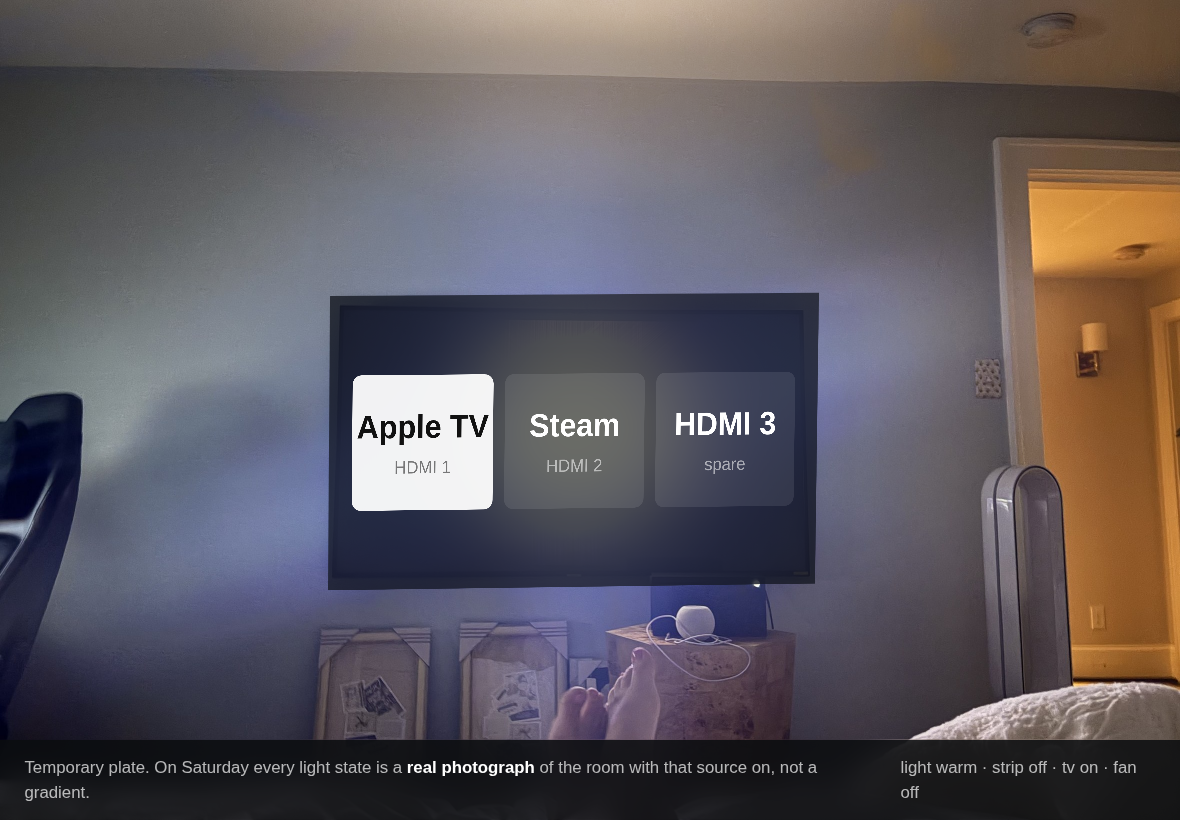
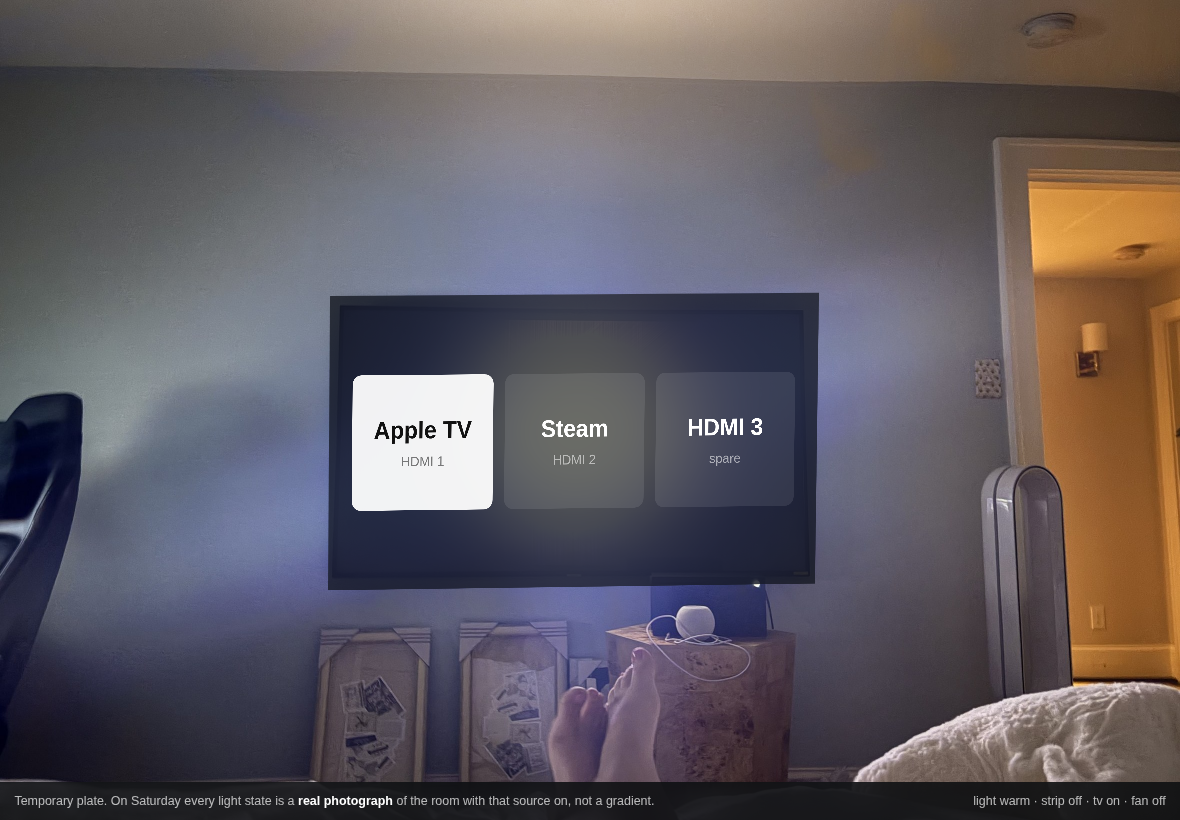
Put the wall page's type back, and back off the picker
The type change went far wider than the note that prompted it, which was about
the source picker on the television. The wall page, the story panels and the
saga are all back exactly where they were.

The picker's labels come down from 62px to 46px inside the mapped box. They stay
sized in that box rather than against the viewport, which is the part worth
keeping: the box is scaled onto the television's four corners, so px there are a
fixed fraction of the television however much of the frame it fills, and a
label sized against the screen would be right on this plate and wrong on the
real one by coincidence.

The settings panel keeps its scrolling, which was never about type size. The
bridge address row made the panel taller than it was, and a Done button below
the fold leaves the scrim as a panel's only exit.

Claude-Session: https://claude.ai/code/session_01PLQX8NFdFZACvUmmxiss33

diff --git a/index.html b/index.html
@@ -63,22 +63,10 @@
 
 *,*::before,*::after{box-sizing:border-box}
 html,body{height:100%;margin:0;overflow:hidden}
-/* ---------------- type size ----------------
-   This panel is bolted to a wall and read from across the room, not held at arm's
-   length, so the whole scale is set once here and everything downstream is in rem.
-
-   Fluid rather than fixed because the two iPads differ by 0.8% and because a value that
-   works on the panel should not need a second value for a laptop while developing. At
-   1180pt it lands around 27px, which is roughly 1.7x the browser default: chosen so a
-   line of body copy is legible from the bed, which is the actual reading distance.
-
-   The tradeoff is real and worth knowing: bigger type means less of a story on screen at
-   once, so the panels scroll further. That is the right way round for this. Something
-   you cannot read from where you are standing is not on the screen at all. */
-html{-webkit-text-size-adjust:100%; font-size:clamp(20px, 2.3vw, 30px)}
+html{-webkit-text-size-adjust:100%}
 body{
   background:var(--wall);
-  font:400 1.02rem/1.5 Helvetica, Arial, sans-serif;
+  font:400 17px/1.55 Helvetica, Arial, sans-serif;
   color:var(--ink);
   -webkit-user-select:none; user-select:none;
   -webkit-touch-callout:none;
@@ -246,7 +234,7 @@ button{font:inherit;color:inherit;margin:0}
   height:var(--front-h, 6vw); aspect-ratio:.61;
   border:.2vw dashed rgba(60,66,58,.62); background:rgba(250,250,247,.94);
   display:flex; align-items:center; justify-content:center;
-  font:700 clamp(11px,1.05vw,18px)/1 Helvetica,Arial,sans-serif;
+  font:700 clamp(8px,.72vw,12px)/1 Helvetica,Arial,sans-serif;
   color:rgba(38,44,38,.66); letter-spacing:.04em; text-transform:uppercase;
 }
 .ledge .shelf img{width:100%; height:100%; object-fit:fill; border-radius:0}
@@ -276,8 +264,8 @@ button{font:inherit;color:inherit;margin:0}
   background:rgba(255,255,255,.30);
   color:rgba(38,44,38,.66);
 }
-.todo b{font:700 clamp(12px,1.25vw,21px)/1.2 Helvetica,Arial,sans-serif;letter-spacing:.02em}
-.todo span{font:400 clamp(11px,1.02vw,17px)/1.25 Helvetica,Arial,sans-serif;opacity:.8}
+.todo b{font:700 clamp(9px,.86vw,15px)/1.2 Helvetica,Arial,sans-serif;letter-spacing:.02em}
+.todo span{font:400 clamp(8px,.7vw,12px)/1.25 Helvetica,Arial,sans-serif;opacity:.8}
 .ledge .todo{width:100%}
 
 /* ============================ story panel ============================ */
@@ -299,13 +287,13 @@ body.story-open #story{transform:none; visibility:visible}
 #storyTop .grow{flex:1 1 auto; min-width:0}
 .stamp{
   display:inline-block; background:var(--pink); color:#fff;
-  font:400 .88rem/1 Impact,"Arial Narrow Bold","Arial Black",Helvetica,sans-serif;
+  font:400 15px/1 Impact,"Arial Narrow Bold","Arial Black",Helvetica,sans-serif;
   letter-spacing:.06em; text-transform:uppercase;
   padding:.35rem .6rem .3rem; transform:rotate(-1.5deg); margin-bottom:.55rem;
 }
-.stamp.big{background:var(--red); font-size:1.12rem}
+.stamp.big{background:var(--red); font-size:19px}
 #storyTop h1{
-  margin:0; font:900 clamp(1.6rem,3.4vw,2.6rem)/1.02 "Arial Black",Helvetica,Arial,sans-serif;
+  margin:0; font:900 clamp(1.5rem,3.1vw,2.4rem)/1.02 "Arial Black",Helvetica,Arial,sans-serif;
   text-transform:uppercase; letter-spacing:-.02em;
 }
 #storyTop .facts{margin:.5rem 0 0; font-size:.9rem; color:#444}
@@ -353,7 +341,7 @@ body.story-open #story{transform:none; visibility:visible}
 .box.blue{box-shadow:5px 5px 0 var(--navy)}
 .box h3{
   margin:0 0 .5rem;
-  font:400 1.14rem/1.15 Impact,"Arial Narrow Bold","Arial Black",Helvetica,sans-serif;
+  font:400 19px/1.15 Impact,"Arial Narrow Bold","Arial Black",Helvetica,sans-serif;
   letter-spacing:.04em; text-transform:uppercase;
 }
 .box p{margin:0 0 .6rem; font-size:.95rem}
@@ -400,7 +388,7 @@ body.story-open #story{transform:none; visibility:visible}
 .saga-wrap{width:min(46rem,100%); margin-inline:auto}
 .chapter{padding:0 0 2rem; border-bottom:3px solid #000; margin-bottom:2rem}
 .chapter:last-child{border-bottom:0}
-.chapter h2{margin:0; font:900 clamp(1.3rem,2.7vw,1.8rem)/1.1 Helvetica,Arial,sans-serif}
+.chapter h2{margin:0; font:900 clamp(1.2rem,2.4vw,1.6rem)/1.1 Helvetica,Arial,sans-serif}
 .chapter .facts{margin:.45rem 0 1rem; font-size:.88rem; color:#444}
 .chapter .facts b{color:#111}
 
@@ -484,10 +472,9 @@ body.idle #wall::after{opacity:.5}
   position:fixed; z-index:80; left:50%; top:50%;
   transform:translate(-50%,-50%) scale(.96);
   width:min(30rem,88vw);
-  /* Scrolls, because the type is now sized for reading across a room and the settings
-     panel has more rows than it did. Without this the Done button goes off the bottom
-     of the screen on the shorter iPad and there is no way to dismiss the panel except
-     the scrim, which is not obvious enough to rely on. */
+  /* Scrolls. The bridge row made this panel taller than it was, and on the shorter
+     iPad the Done button can fall below the fold, leaving the scrim as the only way
+     out, which is not discoverable enough to be a panel's only exit. */
   max-height:88vh; overflow-y:auto; -webkit-overflow-scrolling:touch;
   background:#fff; border:3px solid #000; box-shadow:8px 8px 0 var(--pink);
   padding:1.3rem 1.4rem; opacity:0; visibility:hidden;
@@ -496,7 +483,7 @@ body.idle #wall::after{opacity:.5}
 .panel.on{opacity:1; visibility:visible; transform:translate(-50%,-50%) scale(1)}
 .panel h2{
   margin:0 0 .3rem;
-  font:400 1.3rem/1.1 Impact,"Arial Narrow Bold","Arial Black",Helvetica,sans-serif;
+  font:400 22px/1.1 Impact,"Arial Narrow Bold","Arial Black",Helvetica,sans-serif;
   letter-spacing:.04em; text-transform:uppercase;
 }
 .panel .hint{font-size:.84rem; color:#555; margin:0 0 1rem}

diff --git a/ForOliviaToApprove/demo.html b/ForOliviaToApprove/demo.html
@@ -7,8 +7,6 @@
 <style>
 *,*::before,*::after{box-sizing:border-box}
 html,body{height:100%;margin:0;overflow:hidden;background:#111}
-/* Same scale as the app. This is read from across the room, not at arm's length. */
-html{font-size:clamp(20px, 2.3vw, 30px)}
 body{
   font:400 17px/1.5 Helvetica, Arial, sans-serif; color:#fff;
   -webkit-user-select:none; user-select:none; -webkit-touch-callout:none;
@@ -71,10 +69,10 @@ body.tv-off #tvOff{opacity:1}
 }
 #cap.on{opacity:1; transform:translate(-50%,-50%) scale(1)}
 #cap .now{
-  font:700 .66rem/1.1 Helvetica,Arial,sans-serif; letter-spacing:.09em;
+  font:700 .72rem/1.1 Helvetica,Arial,sans-serif; letter-spacing:.09em;
   text-transform:uppercase; color:rgba(255,255,255,.52);
 }
-#cap .next{font:700 1.12rem/1.3 Helvetica,Arial,sans-serif; margin-top:.15rem}
+#cap .next{font:700 1.06rem/1.3 Helvetica,Arial,sans-serif; margin-top:.15rem}
 #cap .hold{
   font:400 .72rem/1.2 Helvetica,Arial,sans-serif; color:rgba(255,255,255,.5);
   margin-top:.3rem; padding-top:.3rem; border-top:1px solid rgba(255,255,255,.14);
@@ -110,13 +108,13 @@ body.tv-off #tvOff{opacity:1}
      corners, so px here are a fixed fraction of the television however large it lands
      in the photograph. Sized against the viewport instead, the labels would be right
      on this plate and wrong on Saturday's. */
-  color:#fff; font:700 62px/1.2 Helvetica,Arial,sans-serif;
+  color:#fff; font:700 46px/1.2 Helvetica,Arial,sans-serif;
   display:flex; flex-direction:column; align-items:center; justify-content:center;
   gap:6px; cursor:pointer;
   transition:background .14s var(--ease), transform .14s var(--ease);
 }
 #picker button .sub{
-  font:400 34px/1.2 Helvetica,Arial,sans-serif; opacity:.55; margin-top:14px;
+  font:400 26px/1.2 Helvetica,Arial,sans-serif; opacity:.55; margin-top:11px;
 }
 #picker button.cur{background:rgba(255,255,255,.94); color:#111}
 #picker button:active{transform:scale(.97)}
@@ -130,7 +128,7 @@ body.tv-off #tvOff{opacity:1}
   position:fixed; left:0; right:0; bottom:0; z-index:60;
   background:rgba(10,13,15,.86);
   -webkit-backdrop-filter:blur(16px); backdrop-filter:blur(16px);
-  padding:.55rem .9rem; font-size:.62rem; color:rgba(255,255,255,.7);
+  padding:.6rem .9rem; font-size:.78rem; color:rgba(255,255,255,.7);
   display:flex; justify-content:space-between; gap:1rem; align-items:center;
 }
 #banner b{color:#fff}

diff --git a/ForOliviaToApprove/README.md b/ForOliviaToApprove/README.md
@@ -109,21 +109,15 @@ and you have a whole computer once it's on.
 The Dyson has no visual state in a photograph, so it's the one object where the caption
 is doing real work rather than confirming what you can already see.
 
-## 8. Type is sized for the room, not for your hand
+## 8. The picker's labels are sized against the TV, not the screen
 
-Everything is on one fluid scale set in a single line, landing around 27px for body copy
-on the iPad, roughly 1.7x a browser default. It is read from the bed and from standing in
-the doorway, not at arm's length.
+They live *inside the box that gets mapped onto the television*, so they stay a fixed
+fraction of it however large it lands in Saturday's photograph. Sized against the screen
+they would be right on this plate and wrong on the real one, purely by coincidence of how
+much of the frame the TV happens to fill, which would defeat the whole point of mapping
+it in the first place.
 
-The tradeoff is real: less of a story fits on screen, so the panels scroll further. That
-is the right way round. Something you cannot read from where you are standing is not on
-the screen at all.
-
-The picker's labels are sized *inside the box that gets mapped onto the TV*, not against
-the screen, so they stay a fixed fraction of the television however large it turns out to
-be in Saturday's photograph.
-
-Tell me if it wants to be bigger still. It is one number.
+The wall page's type is untouched and stays where it was.
 
 ## 9. Hold is 500ms
 
